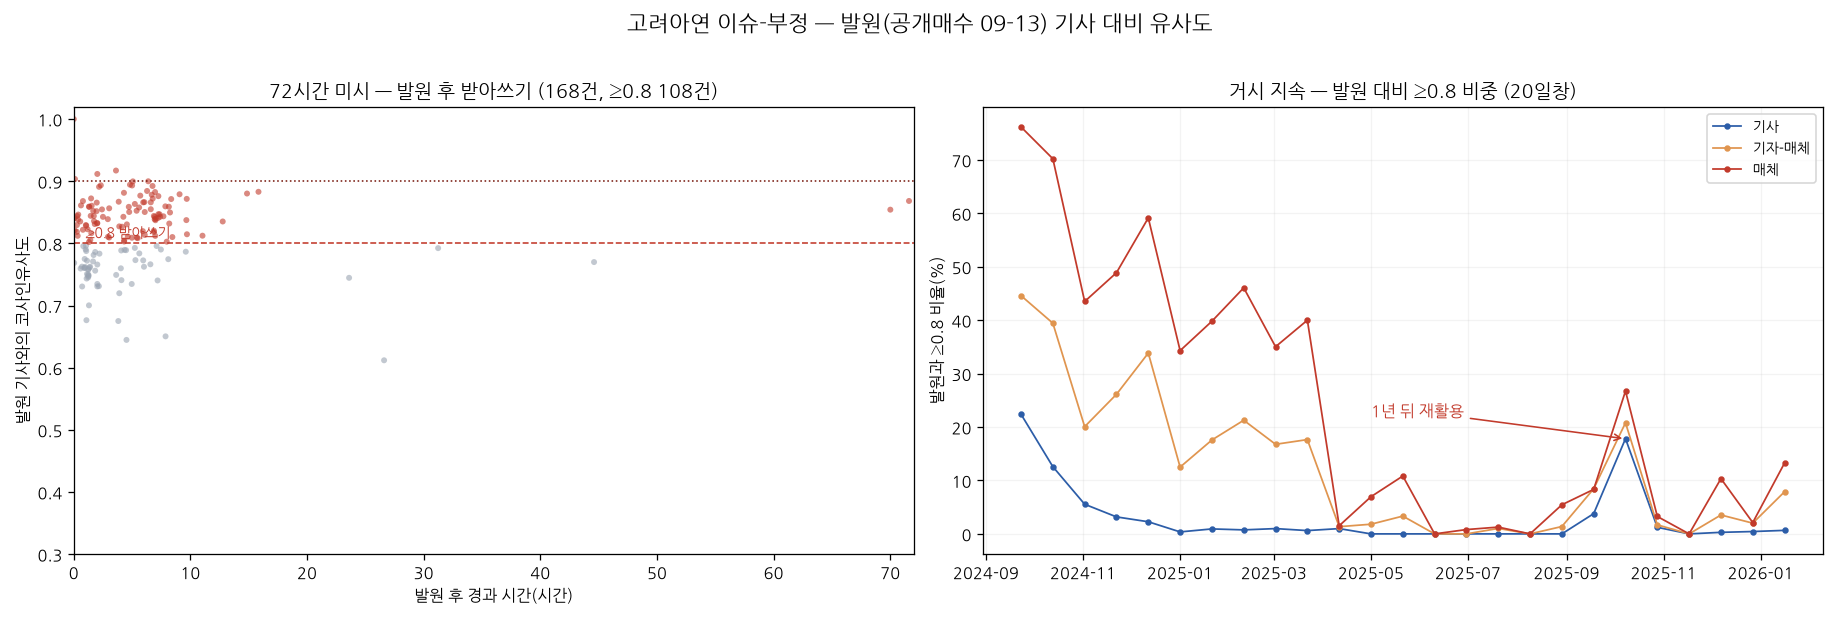
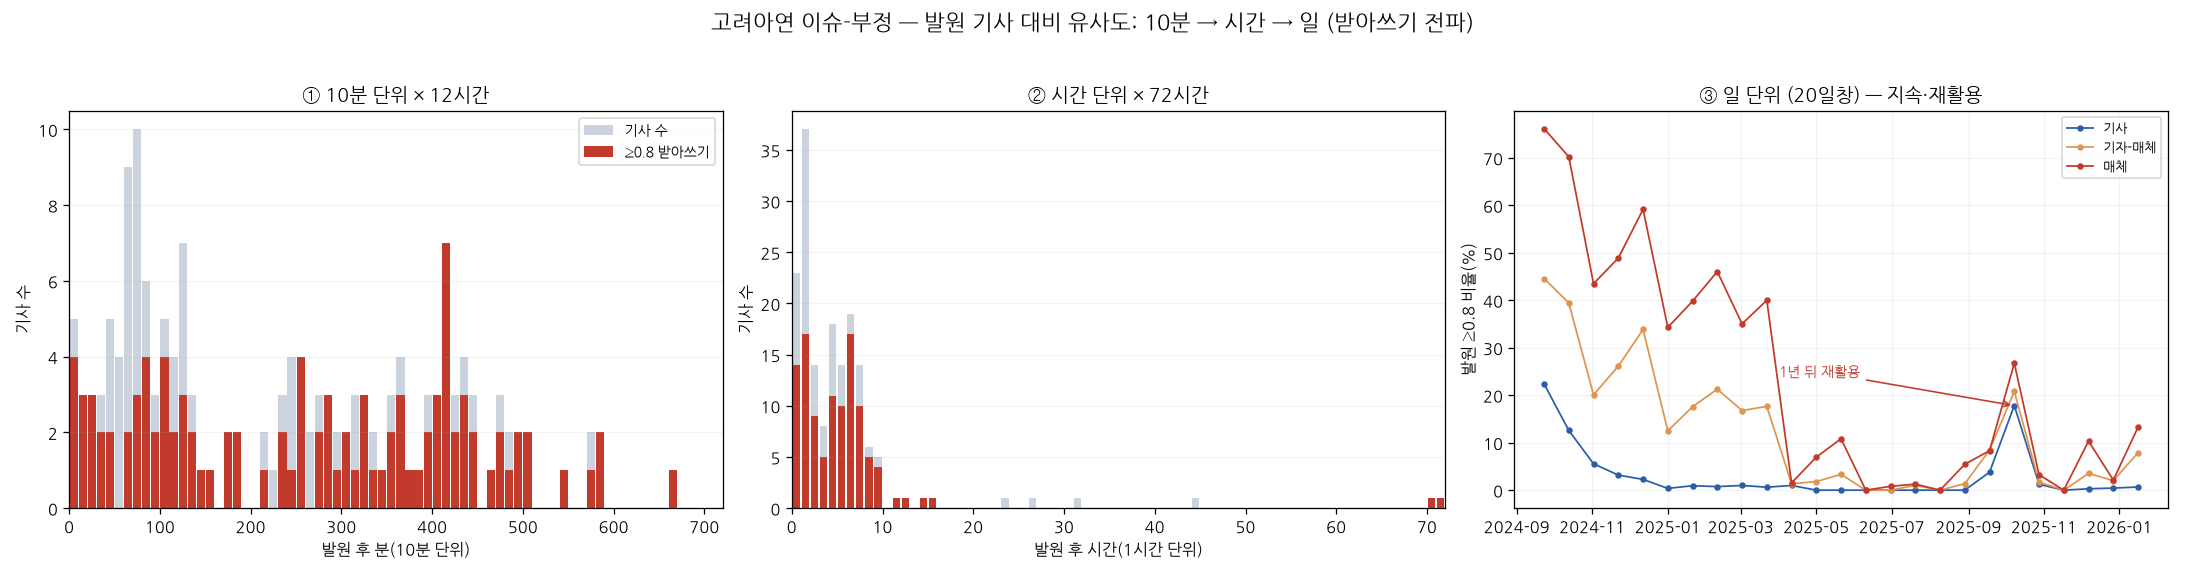
§7.2 발원 추적 10분 척도 추가: 그림20을 10분→시간→일 3척도로. 10분단위 발원직후 받아쓰기 폭발(12h내 ≥0.8 103건)

diff --git a/index.html b/index.html
@@ -314,8 +314,8 @@
 <p>유형별 동조화에서 두 가지가 드러난다. 첫째, 같은 기업·같은 매체군임에도 이슈 보도(매체 단위 평균 0.809·≥0.9 비중 30.2%)가 일반보도(0.758·24.2%)보다 강하게 동조화된다. 곧 동조화는 이 기업 보도의 상시적 속성이 아니라 사건이 만든 것으로, 시점 통제(사전·사후)에 더해 내용 통제 기준선까지 통과한다. 둘째, 이슈 안에서 부정 보도(0.836·38.2%)가 가장 강하게 동조화되고 긍정 보도(0.768·13.1%)는 약하다. 양적 불균형(약 12:1)과 질적 집중(부정이 최고 동조화)이 겹쳐, MBK 부정 내러티브가 조직적으로 확산되었을 가능성을 가리킨다.</p>
 
 <h3>7.2 고려아연 — 발원 기사 추적: 즉각 받아쓰기와 재활용</h3>
-<p>유형·논조 비교가 "어떤 보도가 동조화되는가"를 보였다면, 동조화가 실제로 어떻게 일어나는지는 발원 기사를 시간순으로 추적하면 더 직접적으로 드러난다. MBK 부정 이슈의 발원으로 공개매수 발표 당일의 첫 기사(2024-09-13 09:24, 연합인포맥스)를 잡고, 이후 모든 부정 기사가 그 발원 기사와 얼마나 닮았는지를 코사인유사도로 시간순으로 본다. 72시간 미시와 1·5·10·20일 거시의 두 척도로 받아쓰기의 속도와 지속을 함께 측정한다.</p>
-<figure><img src="assets/seed_kz.png" alt="발원 기사 대비 유사도"><figcaption><b>그림 20.</b> (왼쪽) 72시간 — 발원 후 각 부정 기사의 발원 유사도; 첫 시간대에 ≥0.8(빨강)이 밀집한다. (오른쪽) 거시 — 발원과 ≥0.8인 비율(20일 창, 기사·기자매체·매체); 사건 직후 높고 점차 줄다가 약 1년 뒤 다시 솟는다.</figcaption></figure>
+<p>유형·논조 비교가 "어떤 보도가 동조화되는가"를 보였다면, 동조화가 실제로 어떻게 일어나는지는 발원 기사를 시간순으로 추적하면 더 직접적으로 드러난다. MBK 부정 이슈의 발원으로 공개매수 발표 당일의 첫 기사(2024-09-13 09:24, 연합인포맥스)를 잡고, 이후 모든 부정 기사가 그 발원 기사와 얼마나 닮았는지를 코사인유사도로 시간순으로 본다. 10분·시간의 미시와 1·5·10·20일의 거시, 세 척도로 받아쓰기의 속도와 지속을 함께 측정한다.</p>
+<figure><img src="assets/seed_kz.png" alt="발원 기사 대비 유사도"><figcaption><b>그림 20.</b> 발원 기사 대비 유사도를 세 척도로 — ① 10분×12시간, ② 시간×72시간(회색=기사 수, 빨강=≥0.8 받아쓰기), ③ 일 단위(20일 창, 기사·기자매체·매체). 발원 직후 10분·시간 단위에서 ≥0.8 받아쓰기가 폭발하고, 일 단위에서 매체 비율이 사건 직후 높았다가 약 1년 뒤 다시 솟는다.</figcaption></figure>
 <table>
   <caption><b>표 9.</b> 발원(2024-09-13 09:24) 이후 부정 기사의 받아쓰기 (기사 단위, 발원과의 코사인유사도)</caption>
   <thead><tr><th class="l">경과</th><th>기사 수</th><th>평균 유사도</th><th>≥0.8 (받아쓰기)</th></tr></thead>
@@ -326,7 +326,7 @@
     <tr><td class="l">+72시간</td><td>168</td><td>0.815</td><td>108건 (64.3%)</td></tr>
   </tbody>
 </table>
-<p>받아쓰기는 즉각적이다. 발원 한 시간 안에 이미 23개 기사가 나왔고 그 60.9%가 발원과 ≥0.8로 유사하며, 24시간 안에는 발원과 ≥0.8인 기사가 106건에 이른다. 곧 공개매수 발표 기사가 나오자마자 수십 개 매체가 거의 같은 내용으로 따라 쓴 것으로, 윈도우 평균이 아니라 분·시간 단위에서 받아쓰기를 직접 보여 주는 증거다.</p>
+<p>받아쓰기는 즉각적이다. 발원 한 시간 안에 이미 23개 기사가 나왔고 그 60.9%가 발원과 ≥0.8로 유사하며, 24시간 안에는 발원과 ≥0.8인 기사가 106건에 이른다. 10분 단위로 잘게 보아도 발원 직후 두세 시간에 받아쓰기가 집중되어, 12시간 안에 발원과 ≥0.8인 기사가 103건에 이른다(그림 20①). 곧 공개매수 발표 기사가 나오자마자 수십 개 매체가 거의 같은 내용으로 따라 쓴 것으로, 윈도우 평균이 아니라 분·시간 단위에서 받아쓰기를 직접 보여 주는 증거다.</p>
 <p>받아쓰기는 오래 지속되며 되살아난다. 발원과 ≥0.8인 비율은 매체 단위에서 사건 직후 70%를 넘은 뒤 서서히 낮아지지만, 약 1년 뒤인 2025년 10월에 다시 솟아오른다. 처음 발원한 기사의 틀이 한참 지나서도 재활용됨을 가리키며, 충격이 쉽게 사라지지 않는 비소멸적 동조의 흔적이다.</p>
 
 <h3>7.3 홈플러스 — 유형별 동조화</h3>